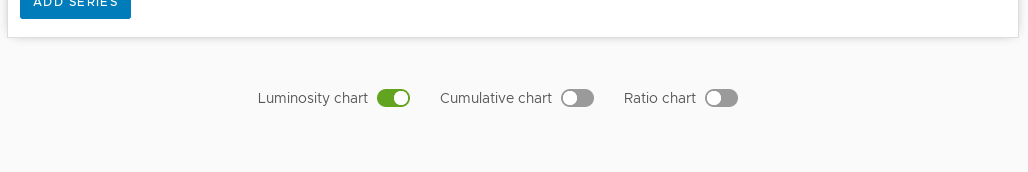
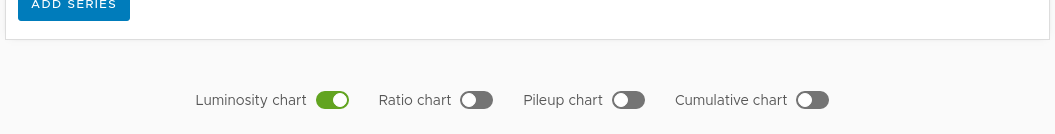
Update documentation

diff --git a/docs/total_lumi_inspector.rst b/docs/total_lumi_inspector.rst
@@ -1,16 +1,17 @@
-Luminosity inspector
-====================
+.. _total_lumi_inspector:
+Total luminosity inspector
+==========================
 
 Brilview application has a total luminosity inspector component for plotting
-total luminosity values. This component is currently the default view you see
-when you visit Brilview application.
+total luminosity values.
 
 Total luminosity component is meant for querying total luminosity from brilcalc
-and visualizing it in 3 types of charts:
+and visualising it in 4 types of charts:
 
 * Luminosity values - :ref:`lumi-values`
-* Cumulative luminosity - :ref:`cumulative`
 * Luminosity ratios - :ref:`ratios`
+* Pileup - :ref:`pileup`
+* Cumulative luminosity - :ref:`cumulative`
 
 Charts can be shown/hidden by toggling the switches at the bottom of the page
 (see image bellow).
@@ -31,7 +32,8 @@ in case of failed queries. After successful query, new data is stored in memory
 (see :ref:`memory`).
 
 .. note:: Normtag field accepts single iovtag/normtag, or multiple comma
-          separated iovtags/normtags.
+          separated iovtags/normtags. Normtag files are available from BRIL
+          CVMFS repository: /cvmfs/cms-bril.cern.ch/cms-lumi-pog/Normtags/
 
 
 .. _memory:
@@ -62,7 +64,7 @@ Luminosity values chart
 -----------------------
 
 This chart displays plain queried data values. In contrast to other charts, this
-one is automatically populated (if possible) with recorded luminosity data after
+one is automatically populated (if possible) with delivered luminosity data after
 successful query. You can also add series manually from memory using form in the
 "Add series" tab at the bottom of chart container.
 
@@ -77,8 +79,7 @@ Cumulative luminosity chart
 This chart works almost the same as plain luminosity chart (see
 :ref:`lumi-values`) and the only difference is that it recalculates values to
 add up with time for each series. Use form in the "Add series" tab at the bottom
-of chart container to add series.
-
+of the chart container to add series.
 
 .. _ratios:
 
@@ -90,6 +91,28 @@ bottom of chart container choose (manually from dropdowns, or by cycling
 permutations with two arrow buttons) two data series from memory to make ratio
 and click "ADD RATIO" button. When adding series, timestamps of data points
 might be slightly modified to align lumisections.
+
+
+.. _pileup:
+
+Pileup chart
+-----------------------
+
+This chart is for plotting pileup values. Use form in the "Add series" tab at
+the bottom of the chart container to add series. This chart can only use data which
+had "Query pileup" checkbox checked in Query form.
+
+
+
+.. _cumulative:
+
+Cumulative luminosity chart
+---------------------------
+
+This chart works almost the same as plain luminosity chart (see
+:ref:`lumi-values`) and the only difference is that it recalculates values to
+add up with time for each series. Use form in the "Add series" tab at the bottom
+of chart container to add series.
 
 
 .. _stats:

diff --git a/docs/deploy.rst b/docs/deploy.rst
@@ -9,6 +9,22 @@ the Brilview project.
 First time setup
 ----------------
 
+Create CVMFS volume claim
+^^^^^^^^^^^^^^^^^^^^^^^^^
+
+Go to project web console https://openshift.cern.ch/console/project/brilview/
+
+1. "Storage" -> "Create Storage"
+2. Fill the form:
+   a. "Storage Class": cvmfs-cms-bril.cern.ch
+   b. "Name": cvmfs-bril
+   c. "Access Mode": Read Only (ROX)
+   d. "Size": O MiB
+3. Click "Create"
+
+Deploy Brilview containers
+^^^^^^^^^^^^^^^^^^^^^^^^^^
+
 .. highlight:: bash
 ::
 
@@ -24,6 +40,9 @@ First time setup
 Do not worry if nginx container is "crashing frequently" until client files are
 compiled. Health check fails until nginx can serve index file.
 
+Add CERN SSO
+^^^^^^^^^^^^
+
 Go to project web console https://openshift.cern.ch/console/project/brilview/
 and add cern-sso-proxy:
 
@@ -32,14 +51,19 @@ and add cern-sso-proxy:
 3. "cern-sso-proxy"
 4. chose e-groups ('cern-users', 'cern-staff', 'CMS-BRIL-Project') and point to nginx-service
 
+Build frontend client
+^^^^^^^^^^^^^^^^^^^^^
+
 After all builds and deployments are finished see section :ref:`update-client` to
 fetch client side code from git repository, run build process and populate
 shared volume for nginx to serve.
 
+Make Brilview public
+^^^^^^^^^^^^^^^^^^^^
+
 Change website visibility from "Intranet" to "Internet": https://cern.service-now.com/service-portal/article.do?n=KB0004359
 
 .. _update-client:
-
 Updating client
 ---------------
 

diff --git a/docs/bx_lumi_inspector.rst b/docs/bx_lumi_inspector.rst
@@ -1,0 +1,41 @@
+Per bunch luminosity inspector
+==============================
+
+This component is for plotting per bunch luminosity from brilcalc.
+
+2 charts are available:
+
+* Luminosity values - :ref:`lumi-values`
+* Luminosity ratios - :ref:`ratios`
+
+Charts can be shown/hidden by toggling the switches at the bottom of the page.
+
+
+Querying
+--------
+
+Data queries are performed using Query panel at the top of the page.
+
+Fill in fields in "Time" and "Options" sections, and hit "QUERY" button. After
+successful query, new data is stored in memory (similar as :ref:`memory` in
+:doc:`total_lumi_inspector`).
+
+.. _lumi-values:
+
+Luminosity values chart
+-----------------------
+
+This chart displays plain queried data values. In contrast to other charts, this
+one is automatically populated (if possible) with delivered luminosity data after
+successful query. You can also add series manually from memory using form in the
+"Add series" tab at the bottom of chart container.
+
+
+.. _ratios:
+
+Luminosity ratios chart
+-----------------------
+
+This chart is for plotting ratios between two series of data. Using form at the
+bottom of the chart container choose two data series from memory to make ratio
+and click "ADD RATIO" button.

diff --git a/docs/atlas_lumi.rst b/docs/atlas_lumi.rst
@@ -1,0 +1,15 @@
+ATLAS luminosity comparison
+===========================
+
+"ATLAS luminosity" component is for plotting ATLAS and BRIL luminosity on the
+same chart for comparison.
+
+Querying
+--------
+
+ATLAS luminosity can be queried by fill number. On query chart is cleared before
+plotting.
+
+When the chart contains a series of ATLAS luminosity, you may query CMS
+luminosity for the same fill. When querying CMS luminosity, new series are added
+on top for comparison.

diff --git a/docs/index.rst b/docs/index.rst
@@ -10,7 +10,10 @@ Brilview is an application for inspecting BRIL data.
    :caption: Docs for users
 
    getting_started
-   lumi_inspector
+   bestlumi_live
+   total_lumi_inspector
+   bx_lumi_inspector
+   atlas_lumi
 
 .. _dev-docs:
 

diff --git a/docs/bestlumi_live.rst b/docs/bestlumi_live.rst
@@ -1,0 +1,6 @@
+Bestlumi live
+=============
+
+This component is for displaying live bestlumi.
+
+The single "Start"/"Stop" button under the main chart enables/disables periodic updating.
